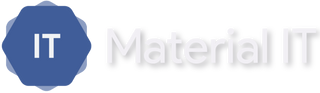
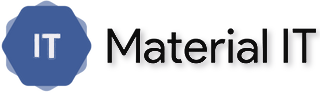
MIT 로고 색상 변경, 로그인 구글 추가, 메인 런모어 링크 적용,, 메인 소개요소 추가

diff --git a/index.html b/index.html
@@ -48,6 +48,7 @@
 </header>
 
 <body class="bg-dark">
+  <!-- 메인 1단 -->
   <div id="preview" class="preview">
     <div style="display: none;"></div>
     <div>
@@ -61,13 +62,12 @@
               <div class="card mx-4 mx-md-5 text-center shadow-5-strong"
                 style=" margin-top: -170px; background: hsla(0, 0%, 100%, 0.7); backdrop-filter: blur(30px); ">
                 <div class="card-body px-4 py-5 px-md-5">
-                  <h1 class="display-3 fw-bold ls-tight mb-4"> <span>Meet IT Easily.</span> <br> <span
-                      class="text-primary">Material IT</span> </h1> <a
-                    class="btn    btn-primary btn-lg py-3 px-5 mb-2 mb-md-0 me-md-2" href="#" role="button"
-                    aria-controls="#picker-editor" draggable="false">Get started</a> <a
-                    class="btn    btn-link btn-lg py-3 px-5 mb-2 mb-md-0" data-ripple-color="primary" href="#"
-                    role="button" aria-controls="#picker-editor" draggable="false">Learn more</a>
-                </div>
+                  <h1 class="display-3 fw-bold ls-tight mb-4"> <span>Meet IT Easily.</span> <br> <span class="text-primary">Material
+                      IT</span> </h1> <a class="btn    btn-primary btn-lg py-3 px-5 mb-2 mb-md-0 me-md-2" href="#" role="button"
+                    aria-controls="#picker-editor" draggable="false">Get started</a> 
+                    <a class="btn    btn-link btn-lg py-3 px-5 mb-2 mb-md-0" data-ripple-color="primary" role="button"
+                    aria-controls="#picker-editor" draggable="false" href="#scrollspyHeading1">Learn more</a>
+                  </div>
               </div>
             </div>
           </section>
@@ -76,12 +76,61 @@
     </div>
   </div>
 
-  <!-- End your project here-->
+  <div class="container marketing">
+    <!-- START THE FEATURETTES -->
+    <div id="scrollspyHeading1">
+    <div class="row featurette bg-muted rounded p-2 m-4">
+      <div class="col-md-7">
+        <h2 class="text-light featurette-heading">IT를 더 쉽게 만나다. <span class="text-muted">Meet IT Easily</span></h2>
+        <p class="text-light lead">IT 전문가들이 모여 만든 Material IT는 여러 소식들을 발빠르게 기사화하고 IT기기들을 전문가의 입장으로서 리뷰하는 리뷰 전문 사이트입니다.</p>
+      </div>
+      <div class="col-md-5">
+        <img class="bd-placeholder-img bd-placeholder-img-lg featurette-image img-fluid mx-auto rounded" width="500" height="500" src="/Material-IT/img/MIT_IMG11.png" alt="">
 
-  <!-- MDB -->
-  <script type="text/javascript" src="js/mdb.min.js"></script>
-  <!-- Custom scripts -->
-  <script type="text/javascript"></script>
+      </div>
+    </div>
+
+    <div class="row featurette bg-muted rounded p-2 m-4">
+      <div class="col-md-7 order-md-2">
+        <h2 class="text-light featurette-heading">SQUARE Youtube. <span class="text-muted">소식을 더욱 빠르게</span></h2>
+        <p class="text-light lead">Material IT의 소식을 기다리기 힘들고 더욱 빠르고 간편하게 소식을 전달받고 싶다면 SQUARE Youtube에 관심을 가져보세요.</p>
+      </div>
+      <div class="col-md-5 order-md-1">
+        <img class="bd-placeholder-img bd-placeholder-img-lg featurette-image img-fluid mx-auto rounded" width="500" height="500" src="/Material-IT/img/SQLOGO.png" alt="">
+      </div>
+    </div>
+
+    <div class="row featurette bg-muted rounded p-2 m-4">
+      <div class="col-md-7">
+        <h2 class="text-light featurette-heading">슼토어. <span class="text-muted">합리적인 전자기기 종합 쇼핑몰</span></h2>
+        <p class="text-light lead">IT 전문가들이 운영하는, 여러 분야의 전자기기를 더욱 간편하고 빠르게 구매할 수 있는 전문 쇼핑몰입니다.</p>
+      </div>
+      <div class="col-md-5">
+        <img class="bd-placeholder-img bd-placeholder-img-lg featurette-image img-fluid mx-auto rounded" width="500" height="500" src="/Material-IT/img/MIT_IMG11.png" alt="">
+      </div>
+    </div>
+
+    </div>
+
+    <!-- /END THE FEATURETTES -->
+
+  </div>
 </body>
+<footer class="container-fluid navbar-fixed-bottom bg-light rounded">
+  <div class="text-center">
+    <a href="/" class="mb-3 me-2 mb-md-0 text-muted text-decoration-none lh-1">
+      <svg class="bi" width="30" height="24">
+        <use xlink:href="#bootstrap"></use>
+      </svg>
+    </a>
+    <span class="text-muted">
+      <pre>
+        Copyright Material IT. All rights reserved.
+        Material IT의 모든 게시글은 저작권법을 통해 보호받고 있으며, 무단 전재 및 재배포(Repost)를 금합니다.
 
+        SQUARE / 대표자 : 김지수 / 사업자등록번호 : 228-04-63824 / 대전광역시 유성구 유성대로642번길 45, 1층 101-이14호 (구암동)
+      </pre>
+    </span>
+  </div>
+</footer>
 </html>

diff --git a/login.html b/login.html
@@ -14,12 +14,12 @@
     <title>Material IT</title>
 </head>
 
-<body class="bg-light">
+<body class="bg-wight">
     <section>
         <div class="container py-5 h-100">
             <div class="row d-flex justify-content-center align-items-center h-100">
                 <div class="col-12 col-md-8 col-lg-6 col-xl-5">
-                    <div class="card bg-white shadow-lg text-white" style="border-radius: 1rem;">
+                    <div class="card bg-light shadow-lg text-white" style="border-radius: 1rem;">
                         <div class="card-body p-5 text-center">
 
                             <div class="mb-md-5 mt-md-4 pb-5">
@@ -38,8 +38,9 @@
                                 <button class="btn btn-dark btn-lg" type="submit"><p class="m-0 text-light">로그인</p></button>
 
                                 <div class="d-flex justify-content-center text-center mt-4 pt-1">
-                                    <a href="#!" class="btn m-2 p-0"><img class="sns-btn" src="/Material-IT/img/kakao.png" alt=""></a>
-                                    <a href="#!" class="btn m-2 p-0"><img class="sns-btn" src="/Material-IT/img/naver.png" alt=""></a>
+                                    <a href="#!" class="btn m-2 p-0"><img class="sns-btn rounded" src="/Material-IT/img/kakao.png" alt=""></a>
+                                    <a href="#!" class="btn m-2 p-0"><img class="sns-btn rounded" src="/Material-IT/img/naver.png" alt=""></a>
+                                    <a href="#!" class="btn m-2 p-0 "><img class="sns-btn rounded" src="/Material-IT/img/google.png" alt=""></a>
                                 </div>
 
                             </div>

diff --git a/css/bootstrap.css b/css/bootstrap.css
@@ -3437,6 +3437,10 @@ input[type="button"].btn-block {
   white-space: nowrap;
 }
 
+body {
+  position: relative;
+}
+
 .dropdown-item-text {
   display: block;
   padding: 0.25rem 1.5rem;
@@ -6696,6 +6700,10 @@ a.close.disabled {
 
 .align-text-top {
   vertical-align: text-top !important;
+}
+
+.cl-light {
+  color: #f7f7f7;
 }
 
 .bg-muted {

diff --git a/js/bootstrap.js b/js/bootstrap.js
@@ -4518,4 +4518,8 @@
   Object.defineProperty(exports, '__esModule', { value: true });
 
 })));
+
+var scrollSpy = new bootstrap.ScrollSpy(document.body, {
+  target: '#navbar-example'
+})
 //# sourceMappingURL=bootstrap.js.map
